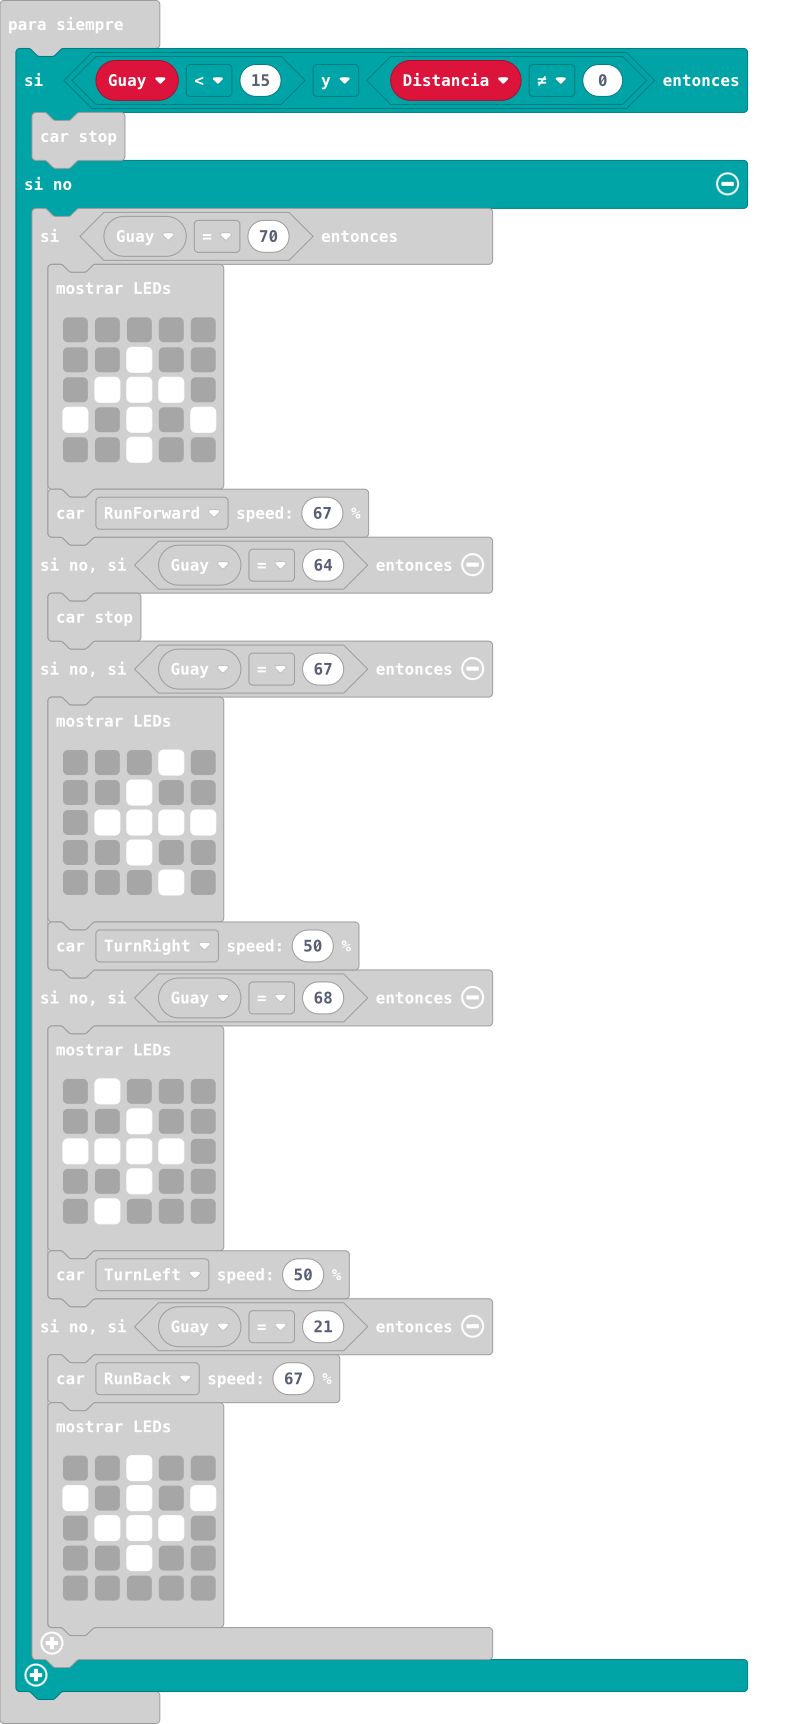
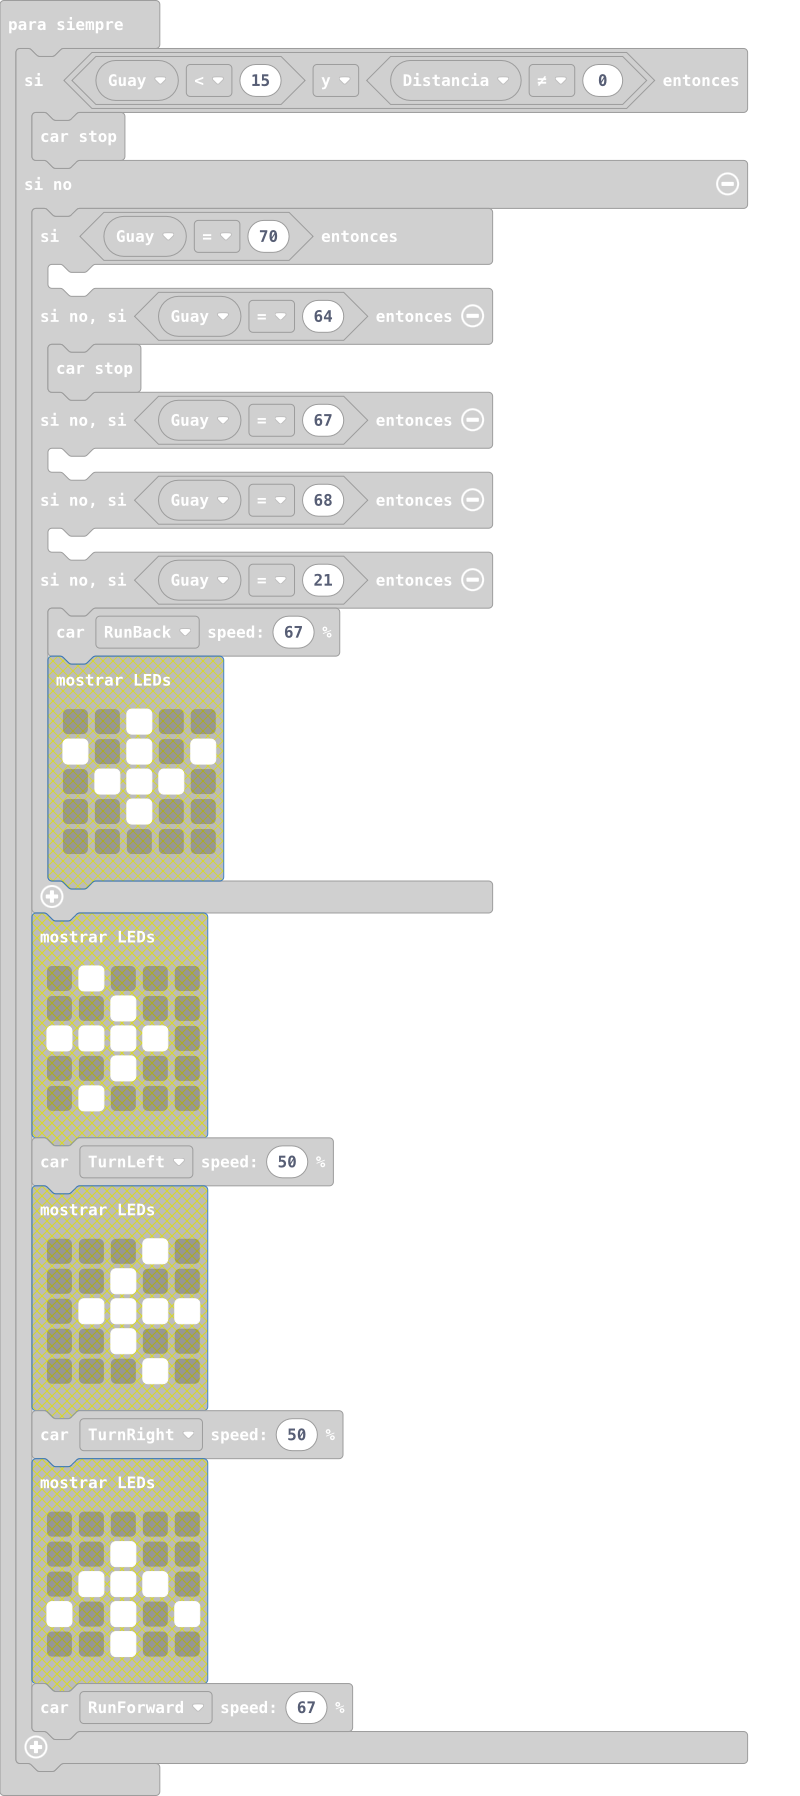
Actualizar main.blocks, main.ts

diff --git a/main.ts b/main.ts
@@ -7,43 +7,15 @@ basic.forever(function () {
         k_Bit.carStop()
     } else {
         if (Guay == 70) {
-            basic.showLeds(`
-                . . . . .
-                . . # . .
-                . # # # .
-                # . # . #
-                . . # . .
-                `)
             k_Bit.run(DIR.RunForward, 67)
         } else if (Guay == 64) {
             k_Bit.carStop()
         } else if (Guay == 67) {
-            basic.showLeds(`
-                . . . # .
-                . . # . .
-                . # # # #
-                . . # . .
-                . . . # .
-                `)
             k_Bit.run(DIR.TurnRight, 50)
         } else if (Guay == 68) {
-            basic.showLeds(`
-                . # . . .
-                . . # . .
-                # # # # .
-                . . # . .
-                . # . . .
-                `)
             k_Bit.run(DIR.TurnLeft, 50)
         } else if (Guay == 21) {
             k_Bit.run(DIR.RunBack, 67)
-            basic.showLeds(`
-                . . # . .
-                # . # . #
-                . # # # .
-                . . # . .
-                . . . . .
-                `)
         }
     }
 })
